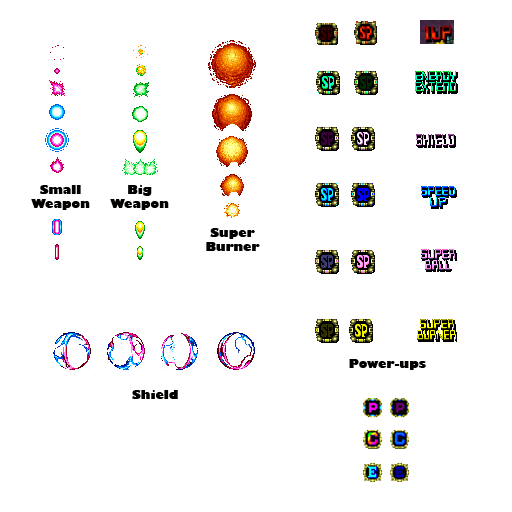
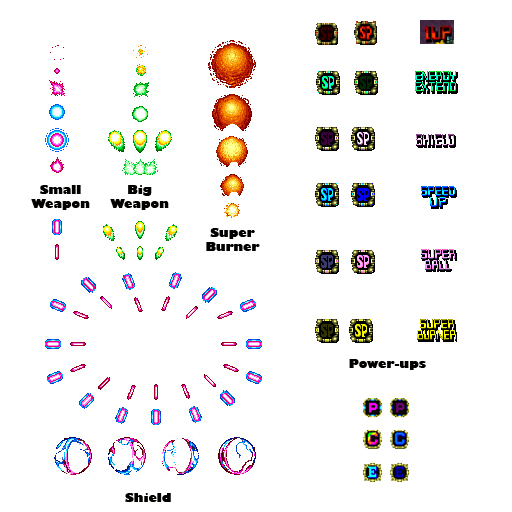
Added lvl in weapons

diff --git a/OutZone/ModuleParticles.cpp b/OutZone/ModuleParticles.cpp
@@ -36,17 +36,15 @@ bool ModuleParticles::Start()
 	triple_shot_lv1_center.speed.y = -4;
 	triple_shot_lv1_center.life = 1000;
 	triple_shot_lv1_center.fx = App->audios->LoadFX("triple_shot.wav");
-
 	//Triple right
-	triple_shot_lv1_right.anim.PushBack({ 137, 246, 6, 14 });
+	triple_shot_lv1_right.anim.PushBack({ 155, 247, 9, 13 });
 	triple_shot_lv1_right.speed.y = -4;
-	triple_shot_lv1_right.speed.x = -2;
+	triple_shot_lv1_right.speed.x = +2;
 	triple_shot_lv1_right.life = 1000;
-
 	//Triple left
-	triple_shot_lv1_left.anim.PushBack({ 137, 246, 6, 14 });
+	triple_shot_lv1_left.anim.PushBack({ 116, 247, 9, 13 });
 	triple_shot_lv1_left.speed.y = -4;
-	triple_shot_lv1_left.speed.x = +2;
+	triple_shot_lv1_left.speed.x = -2;
 	triple_shot_lv1_left.life = 1000;
 
 
@@ -57,6 +55,49 @@ bool ModuleParticles::Start()
 	minigun_shot_lv2.speed.y = -4;
 	minigun_shot_lv2.life = 1000;
 	minigun_shot_lv2.fx = minigun_shot_lv1.fx;
+
+	// Triple shot particle
+	triple_shot_lv2_center.anim.PushBack({ 135, 221, 10, 18 });
+	triple_shot_lv2_center.speed.y = -4;
+	triple_shot_lv2_center.life = 1000;
+	triple_shot_lv2_center.fx = App->audios->LoadFX("triple_shot.wav");
+	//Triple right
+	triple_shot_lv2_right.anim.PushBack({ 165, 224, 12, 17 });
+	triple_shot_lv2_right.speed.y = -4;
+	triple_shot_lv2_right.speed.x = +2;
+	triple_shot_lv2_right.life = 1000;
+	//Triple left
+	triple_shot_lv2_left.anim.PushBack({ 103, 224, 12, 17 });
+	triple_shot_lv2_left.speed.y = -4;
+	triple_shot_lv2_left.speed.x = -2;
+	triple_shot_lv2_left.life = 1000;
+
+
+	//LVL 3 particles
+
+	//Minigun
+	minigun_shot_lv3.anim.PushBack({ 45, 128, 24, 24 });
+	minigun_shot_lv3.anim.PushBack({45, 100, 24, 24});
+	minigun_shot_lv3.anim.speed = 0.25f;
+	minigun_shot_lv3.speed.y = -4;
+	minigun_shot_lv3.life = 1000;
+	minigun_shot_lv3.fx = minigun_shot_lv1.fx;
+
+	// Triple shot particle
+	triple_shot_lv3_center.anim.PushBack({ 133, 130, 14, 23 });
+	triple_shot_lv3_center.speed.y = -4;
+	triple_shot_lv3_center.life = 1000;
+	triple_shot_lv3_center.fx = App->audios->LoadFX("triple_shot.wav");
+	//Triple right
+	triple_shot_lv3_right.anim.PushBack({ 155, 130, 17, 22 });
+	triple_shot_lv3_right.speed.y = -4;
+	triple_shot_lv3_right.speed.x = +2;
+	triple_shot_lv3_right.life = 1000;
+	//Triple left
+	triple_shot_lv3_left.anim.PushBack({ 108, 130, 17, 22 });
+	triple_shot_lv3_left.speed.y = -4;
+	triple_shot_lv3_left.speed.x = -2;
+	triple_shot_lv3_left.life = 1000;
 
 	return true;
 }

diff --git a/OutZone/ModulePlayer.cpp b/OutZone/ModulePlayer.cpp
@@ -179,14 +179,28 @@ update_status ModulePlayer::Update(){
 			else if (lvl == 2){
 				App->particles->AddParticle(App->particles->minigun_shot_lv2, position.x + (3 * width / 4), position.y - height);
 			}
-
+			else if (lvl == 3){
+				App->particles->AddParticle(App->particles->minigun_shot_lv3, position.x + (3 * width / 4), position.y - height);
+			}
 		}
 
 
 		if (current_weapon == TRIPLE_GUN){
-			App->particles->AddParticle(App->particles->triple_shot_lv1_center, position.x + width / 2, position.y - height);
-			App->particles->AddParticle(App->particles->triple_shot_lv1_right, position.x + 2 + width / 2, position.y - height);
-			App->particles->AddParticle(App->particles->triple_shot_lv1_left, position.x - 2 + width / 2, position.y - height);
+			if (lvl == 1){
+				App->particles->AddParticle(App->particles->triple_shot_lv1_center, position.x + width / 2, position.y - height);
+				App->particles->AddParticle(App->particles->triple_shot_lv1_right, position.x + 3 + width / 2, position.y - height);
+				App->particles->AddParticle(App->particles->triple_shot_lv1_left, position.x - 6 + width / 2, position.y - height);
+			}
+			else if (lvl == 2){
+				App->particles->AddParticle(App->particles->triple_shot_lv2_center, position.x + width / 2, position.y - height);
+				App->particles->AddParticle(App->particles->triple_shot_lv2_right, position.x + 3 + width / 2, position.y - height);
+				App->particles->AddParticle(App->particles->triple_shot_lv2_left, position.x - 6 + width / 2, position.y - height);
+			}
+			else if (lvl == 3){
+				App->particles->AddParticle(App->particles->triple_shot_lv3_center, position.x + width / 2, position.y - height);
+				App->particles->AddParticle(App->particles->triple_shot_lv3_right, position.x + 3 + width / 2, position.y - height);
+				App->particles->AddParticle(App->particles->triple_shot_lv3_left, position.x - 6 + width / 2, position.y - height);
+			}
 		}
 
 	}

diff --git a/OutZone/ModuleParticles.h b/OutZone/ModuleParticles.h
@@ -50,9 +50,17 @@ public:
 	Particle minigun_shot_lv1;
 	Particle minigun_shot_lv2;
 	Particle minigun_shot_lv3;
+
+
 	Particle triple_shot_lv1_center;
 	Particle triple_shot_lv1_right;
 	Particle triple_shot_lv1_left;
+	Particle triple_shot_lv2_center;
+	Particle triple_shot_lv2_right;
+	Particle triple_shot_lv2_left;
+	Particle triple_shot_lv3_center;
+	Particle triple_shot_lv3_right;
+	Particle triple_shot_lv3_left;
 };
 
 #endif // !__MODULEPARTICLES_H__
